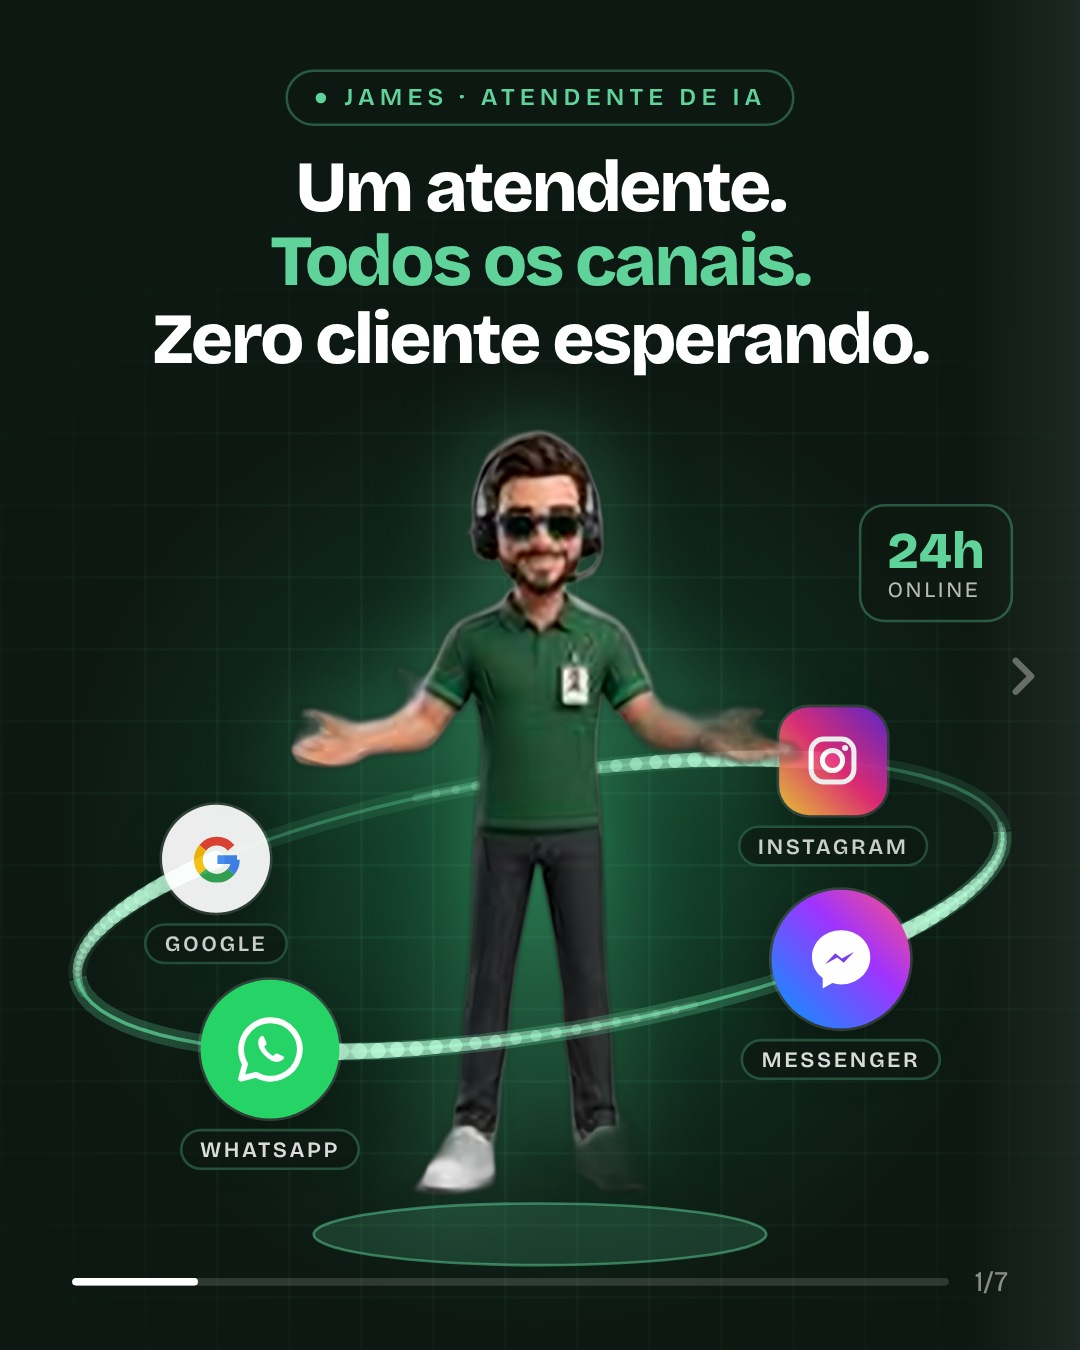
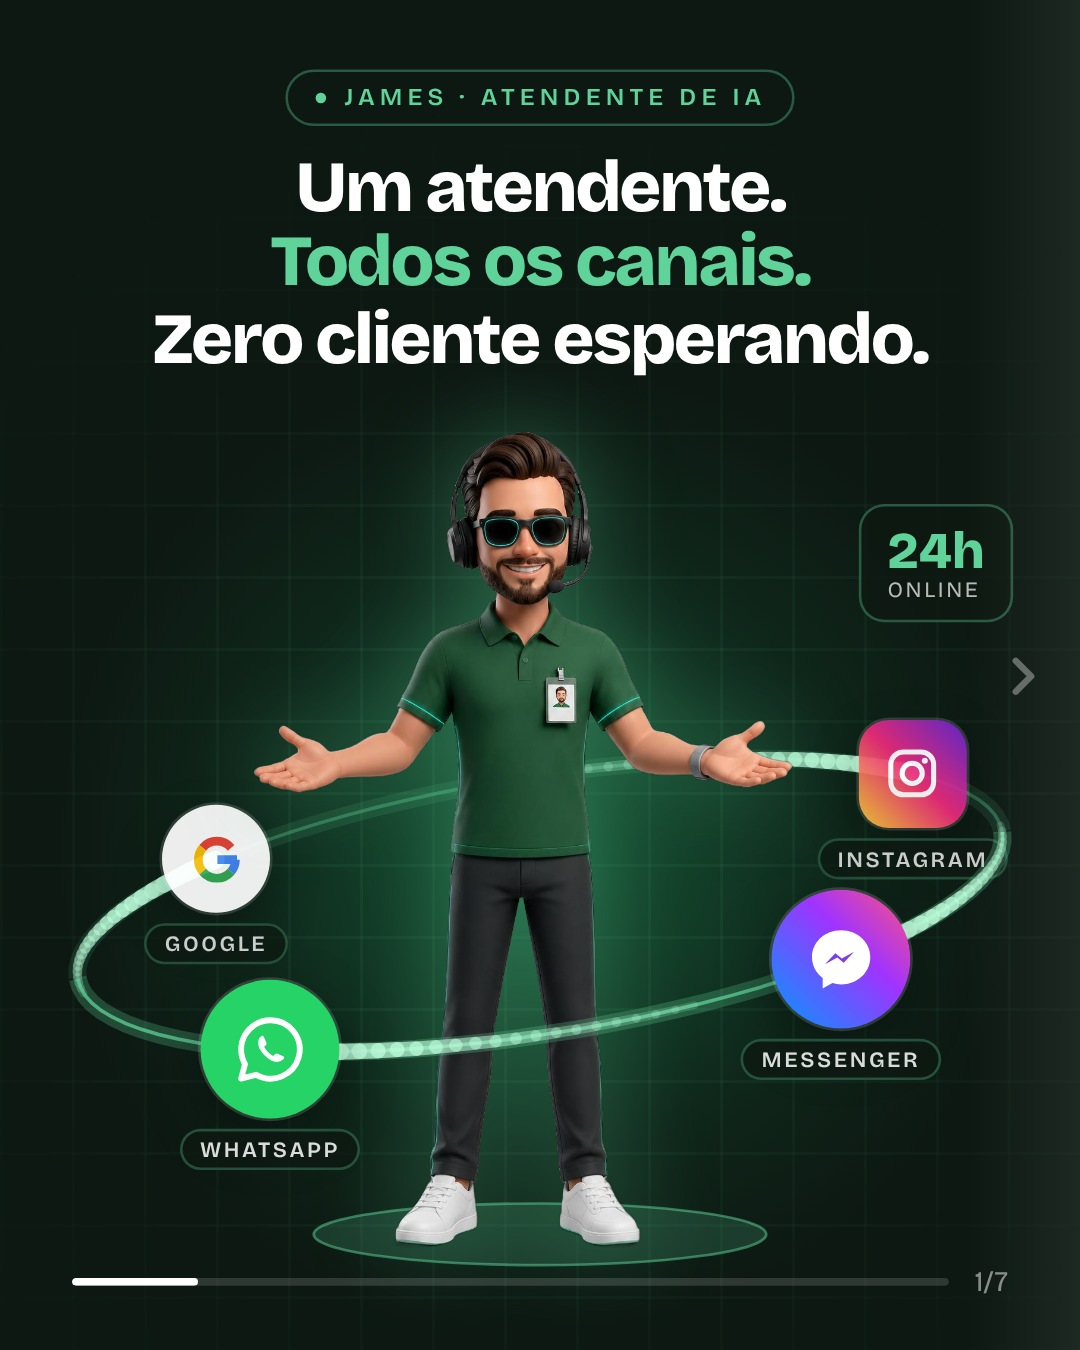
Capa em alta: James de corpo inteiro, braços abertos
Claude-Session: https://claude.ai/code/session_01VHTZrf2VY6QLG2RcwtQmU1

Changed region(s): [[0.2444, 0.3111, 0.9167, 0.9333]]

diff --git a/carrossel-james-canais-2026-10-08/build_canais.py b/carrossel-james-canais-2026-10-08/build_canais.py
@@ -113,7 +113,7 @@ def orbit_icon(kind, label, t, s, z):
     op = "1" if z==3 else "0.92"
     return f'''<div style="position:absolute;left:{x-s/2:.0f}px;top:{y-s/2:.0f}px;z-index:{z};opacity:{op};display:flex;flex-direction:column;align-items:center;gap:4px;width:{s}px;">
 {ico(kind, s)}<span class="sans" style="font-size:8.5px;font-weight:600;letter-spacing:1px;color:rgba(255,255,255,0.85);background:rgba(13,24,18,0.75);padding:2px 7px;border-radius:10px;border:1px solid rgba(95,211,154,0.3);white-space:nowrap;">{label}</span></div>'''
-ICONS=[("wa","WHATSAPP",128,54,3),("ms","MESSENGER",52,54,3),("ig","INSTAGRAM",312,42,1),("go","GOOGLE",228,42,1)]
+ICONS=[("wa","WHATSAPP",128,54,3),("ms","MESSENGER",52,54,3),("ig","INSTAGRAM",326,42,1),("go","GOOGLE",228,42,1)]
 def ring(half):  # half: "back" (topo) ou "front" (base)
     pts=[opt(t) for t in (range(180,361,4) if half=="back" else range(0,181,4))]
     d="M"+" L".join(f"{x:.1f} {y:.1f}" for x,y in pts)
@@ -130,7 +130,7 @@ hero_art = f'''
 </svg>
 {ring("back")}
 {"".join(orbit_icon(k,l,t,sz,z) for k,l,t,sz,z in ICONS if z==1)}
-<img src="{HERO}" style="position:absolute;z-index:2;left:50%;transform:translateX(-50%);bottom:40px;height:332px;filter:drop-shadow(0 0 18px rgba(95,211,154,0.35));">
+<img src="{HERO}" style="position:absolute;z-index:2;left:50%;transform:translateX(-50%);bottom:18px;height:340px;filter:drop-shadow(0 0 18px rgba(95,211,154,0.35));">
 {ring("front")}
 {"".join(orbit_icon(k,l,t,sz,z) for k,l,t,sz,z in ICONS if z==3)}
 <div style="position:absolute;right:26px;top:196px;z-index:3;padding:7px 10px;border-radius:10px;background:rgba(13,24,18,0.75);border:1px solid rgba(95,211,154,0.35);">
